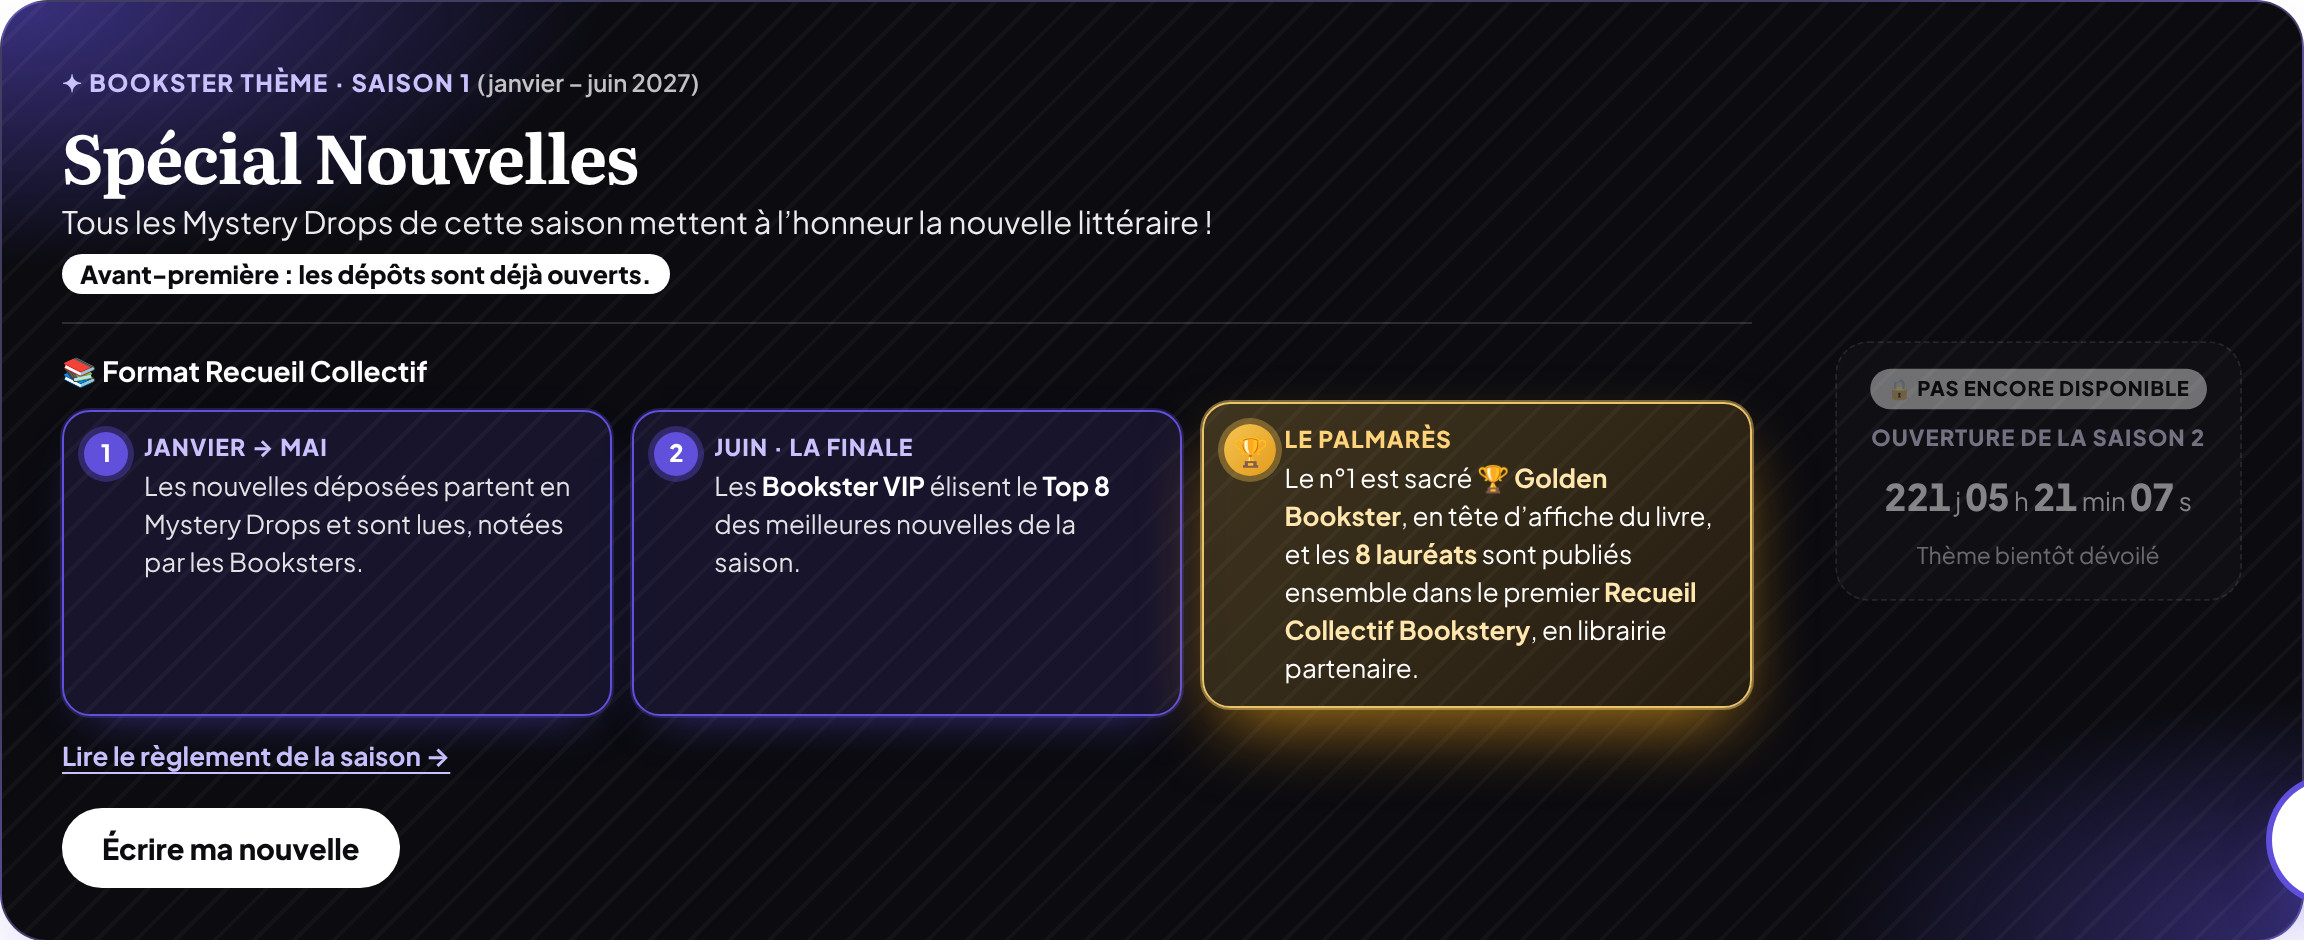
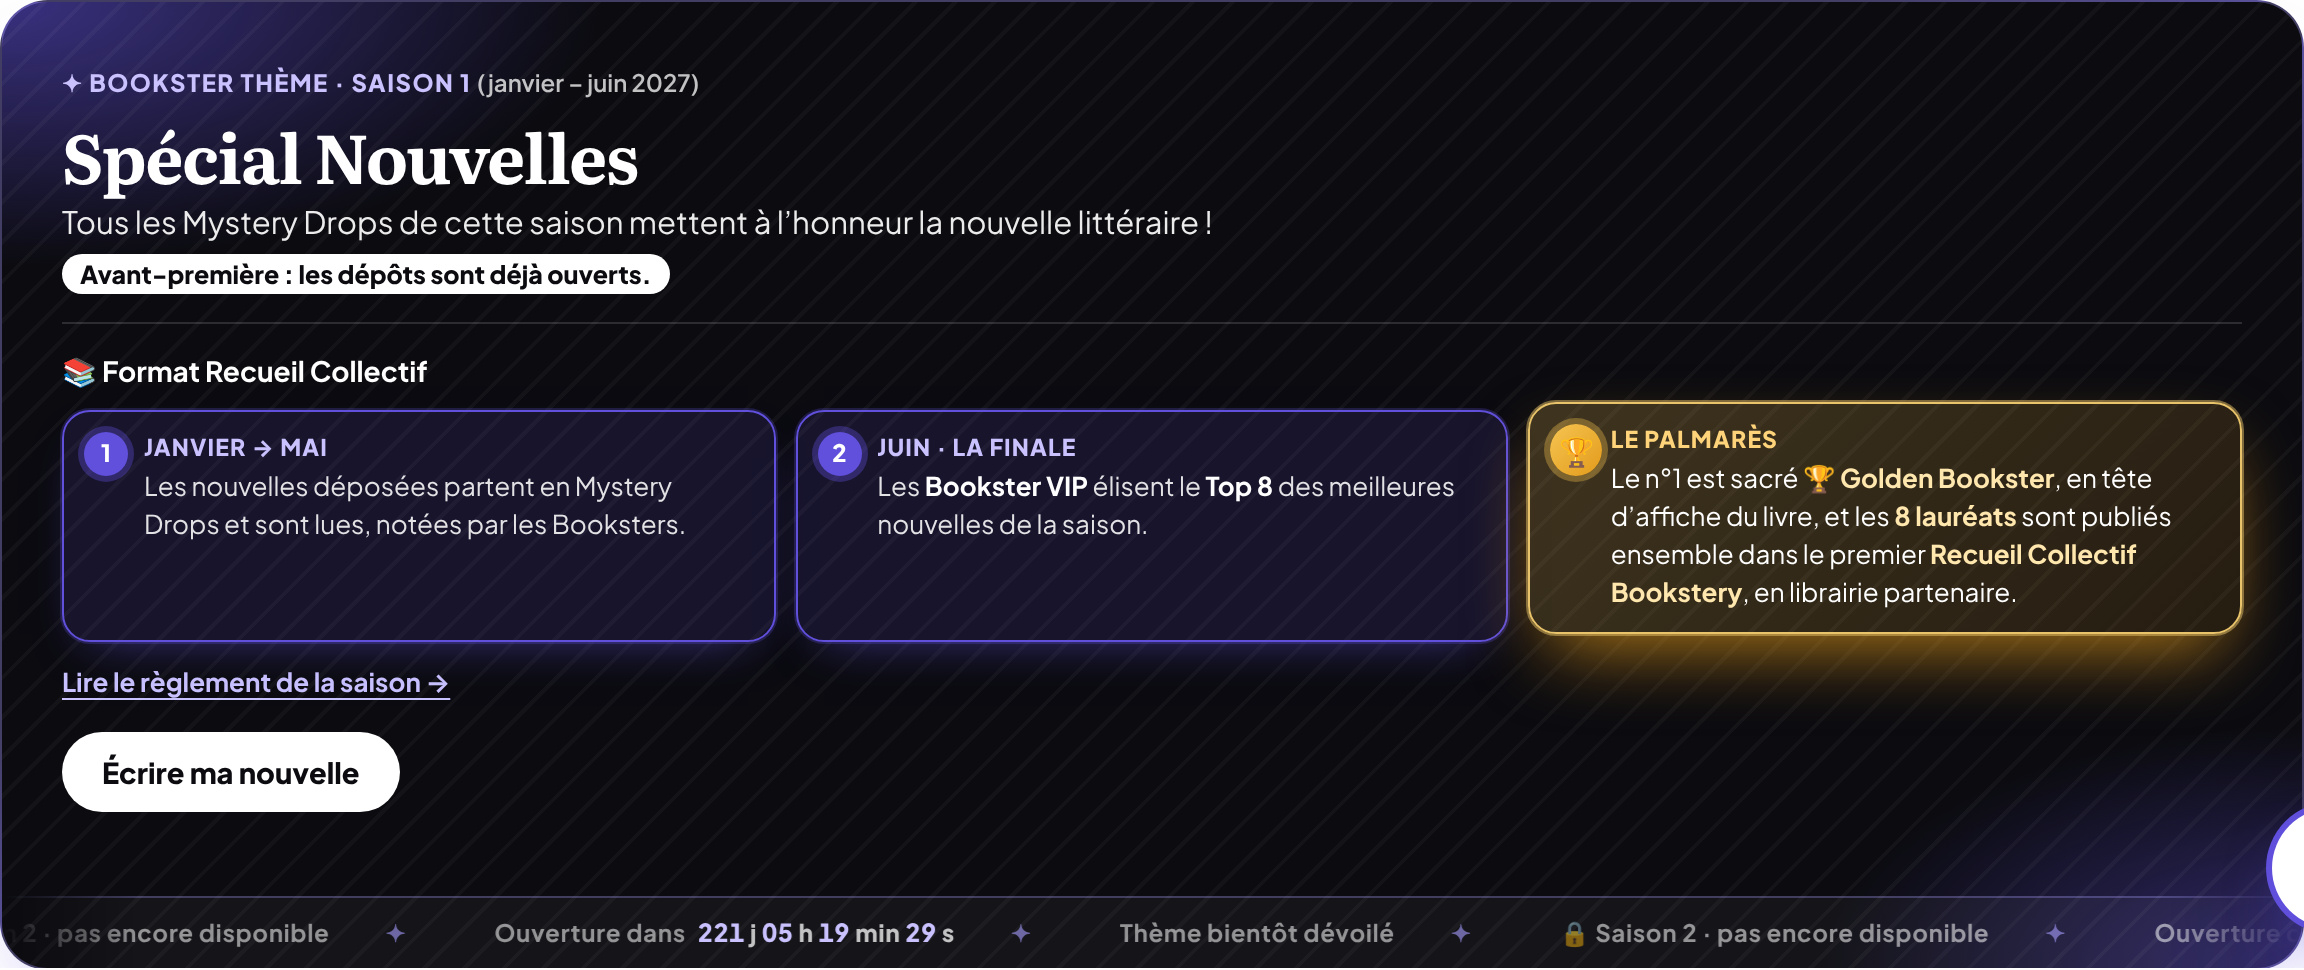
Bannière Saison 1 : ouverture de la Saison 2 en liseré fin défilant
Claude-Session: https://claude.ai/code/session_01EPa3evC84KLMU14gb8iTX3

diff --git a/index.html b/index.html
@@ -1187,6 +1187,22 @@ footer .legal{grid-column:1/-1;border-top:1px solid var(--line);padding-top:18px
 /* Étapes 1 et 2 : contour bleu Majorelle */
 .sz-steps li:not(:last-child){border:1.5px solid #6050DC;background:rgba(96,80,220,.14);box-shadow:0 0 0 1px rgba(96,80,220,.25),0 10px 24px -14px rgba(96,80,220,.7)}
 .sz-steps li:not(:last-child)::before{box-shadow:0 0 0 3px rgba(96,80,220,.35)}
+/* Liseré défilant de la saison suivante */
+.saison{flex-wrap:wrap;padding-bottom:0!important}
+.saison .sz-l{flex:1 1 100%;min-width:0}
+.saison{min-width:0;max-width:100%}
+.sz-ruban{min-width:0;max-width:none;width:auto;contain:inline-size}
+.sz-ruban{flex:1 1 100%;margin:18px -30px 0;overflow:hidden;border-top:1px solid rgba(169,159,255,.3);background:rgba(255,255,255,.04);white-space:nowrap;
+  -webkit-mask-image:linear-gradient(90deg,transparent,#000 6%,#000 94%,transparent);mask-image:linear-gradient(90deg,transparent,#000 6%,#000 94%,transparent)}
+.saison.auteur .sz-ruban{margin:14px -20px 0}
+.sz-rt{display:inline-flex;animation:szRuban 38s linear infinite}
+.sz-ruban:hover .sz-rt{animation-play-state:paused}
+.sz-ri{display:inline-flex;align-items:center;gap:6px;padding:7px 22px;font-size:12px;font-weight:700;letter-spacing:.03em;color:rgba(255,255,255,.55)}
+.sz-ri::after{content:"✦";margin-left:22px;color:rgba(169,159,255,.6)}
+.sz-ri .sz-cd{font-size:12px;opacity:1;color:rgba(255,255,255,.75)}
+.sz-ri .sz-cd b{font-size:12.5px;font-weight:800;color:#C9C2FF}
+@keyframes szRuban{from{transform:translateX(0)}to{transform:translateX(-50%)}}
+@media(max-width:760px){.sz-ruban{margin:16px -18px 0}}
 @media(prefers-reduced-motion:reduce){*{transition-duration:.01ms!important;animation:none!important;scroll-behavior:auto!important}}
 </style>
 </head>
@@ -1250,7 +1266,7 @@ footer .legal{grid-column:1/-1;border-top:1px solid var(--line);padding-top:18px
   </div>
 
   <div class="wrap">
-    <div class="saison-slot" data-saison="accueil"><section class="saison accueil" aria-label="Bookster Thème Saison 1"><div class="sz-l"><span class="sz-k">✦ Bookster Thème · Saison 1 <i>(janvier – juin 2027)</i></span><h2 class="sz-t">Spécial Nouvelles</h2><p class="sz-p">Tous les Mystery Drops de cette saison mettent à l’honneur la nouvelle littéraire&nbsp;!</p><div class="sz-rc"><b class="sz-rc-t">📚 Format Recueil Collectif</b><ol class="sz-steps"><li><span>Janvier → mai</span>Les nouvelles déposées partent en Mystery Drops et sont lues, notées par les Booksters.</li><li><span>Juin · la finale</span>Les <b>Bookster VIP</b> élisent le <b>Top 8</b> des meilleures nouvelles de la saison.</li><li><span>Le palmarès</span>Le n°1 est sacré <b>🏆 Golden Bookster</b>, en tête d’affiche du livre, et les <b>8 lauréats</b> sont publiés ensemble dans le premier <b>Recueil Collectif Bookstery</b>, en librairie partenaire.</li></ol><a class="sz-reg" href="legal.html#c-saison1">Lire le règlement de la saison →</a></div><button class="sz-btn" type="button" data-auteur>Écrire ma nouvelle</button></div><div class="sz-r"><span class="sz-soon">🔒 Pas encore disponible</span><span class="sz-cd-k">Ouverture de la Saison 2</span><span class="sz-cd">1er juillet 2027</span><span class="sz-cd-n">Thème bientôt dévoilé</span></div></section></div>
+    <div class="saison-slot" data-saison="accueil"><section class="saison accueil" aria-label="Bookster Thème Saison 1"><div class="sz-l"><span class="sz-k">✦ Bookster Thème · Saison 1 <i>(janvier – juin 2027)</i></span><h2 class="sz-t">Spécial Nouvelles</h2><p class="sz-p">Tous les Mystery Drops de cette saison mettent à l’honneur la nouvelle littéraire&nbsp;!</p><div class="sz-rc"><b class="sz-rc-t">📚 Format Recueil Collectif</b><ol class="sz-steps"><li><span>Janvier → mai</span>Les nouvelles déposées partent en Mystery Drops et sont lues, notées par les Booksters.</li><li><span>Juin · la finale</span>Les <b>Bookster VIP</b> élisent le <b>Top 8</b> des meilleures nouvelles de la saison.</li><li><span>Le palmarès</span>Le n°1 est sacré <b>🏆 Golden Bookster</b>, en tête d’affiche du livre, et les <b>8 lauréats</b> sont publiés ensemble dans le premier <b>Recueil Collectif Bookstery</b>, en librairie partenaire.</li></ol><a class="sz-reg" href="legal.html#c-saison1">Lire le règlement de la saison →</a></div><button class="sz-btn" type="button" data-auteur>Écrire ma nouvelle</button></div><div class="sz-ruban" role="note"><div class="sz-rt"><span class="sz-ri">🔒 Saison 2 · pas encore disponible</span><span class="sz-ri">Ouverture le 1er juillet 2027</span><span class="sz-ri">Thème bientôt dévoilé</span><span class="sz-ri">🔒 Saison 2 · pas encore disponible</span><span class="sz-ri">Ouverture le 1er juillet 2027</span><span class="sz-ri">Thème bientôt dévoilé</span><span class="sz-ri">🔒 Saison 2 · pas encore disponible</span><span class="sz-ri">Ouverture le 1er juillet 2027</span><span class="sz-ri">Thème bientôt dévoilé</span><span class="sz-ri">🔒 Saison 2 · pas encore disponible</span><span class="sz-ri">Ouverture le 1er juillet 2027</span><span class="sz-ri">Thème bientôt dévoilé</span></div></div></section></div>
     <div class="themes-slot" data-themes="accueil"><section class="bt accueil" aria-label="Boîte à Thèmes Saison 2"><div class="bt-l"><span class="bt-k">💡 Boîte à Thèmes · Saison 2</span><h3 class="bt-t">Quel thème pour la Saison 2&nbsp;?</h3><p class="bt-p">Propose le prochain Bookster Thème&nbsp;: la communauté décide, et Bookstery l’écoute.</p><div class="bt-grid"><span class="bt-g">Aventure</span><span class="bt-g">BD</span><span class="bt-g">Classiques</span><span class="bt-g">Fantasy</span><span class="bt-g">Feel-good</span><span class="bt-g">Horreur</span><span class="bt-g">Manga</span><span class="bt-g">Nouvelles</span><span class="bt-g">Poésie</span><span class="bt-g">Polar</span><span class="bt-g">Romance</span><span class="bt-g">Science-fiction</span><span class="bt-g">Thriller</span><span class="bt-g">Young Adult</span></div></div><div class="bt-r"><div class="bt-live"><span class="bt-dot"></span>Tendances en direct</div><p class="bt-empty">Chargement des tendances…</p></div></section></div>
     <ul class="vprops" aria-label="Pourquoi Bookstery">
       <li><span class="vp-ico" aria-hidden="true"><svg width="22" height="22" viewBox="0 0 24 24" fill="none" stroke="currentColor" stroke-width="2" stroke-linecap="round" stroke-linejoin="round"><path d="M4 19.5V5a2 2 0 0 1 2-2h13v16H6a2 2 0 0 0-2 2.5Z"/><path d="M8 7h7M8 11h5"/></svg></span><div><b>Des livres d’occasion près de chez toi</b><span>Vendus par des Booksters, avec photos réelles de chaque exemplaire.</span></div></li>
@@ -3556,6 +3572,9 @@ function saisonCourante(){var n=Date.now();for(var i=0;i<SAISONS.length;i++)if(n
 function saisonSuivante(c){var i=SAISONS.indexOf(c);return i>-1?SAISONS[i+1]||null:null}
 function rebours(ms){if(ms<=0)return"c’est ouvert !";var j=Math.floor(ms/864e5),h=Math.floor(ms%864e5/36e5),m=Math.floor(ms%36e5/6e4),s2=Math.floor(ms%6e4/1e3);
   return'<b>'+j+'</b> j <b>'+String(h).padStart(2,"0")+'</b> h <b>'+String(m).padStart(2,"0")+'</b> min <b>'+String(s2).padStart(2,"0")+'</b> s'}
+/* Liseré défilant (Saison suivante, pas encore disponible) : le contenu est doublé pour un défilement sans coupure */
+function szRuban(nx){var item='<span class="sz-ri">🔒 '+esc(nx.nom)+' · pas encore disponible</span><span class="sz-ri">Ouverture dans <b class="sz-cd" data-cd="'+esc(nx.debut)+'">'+rebours(Date.parse(nx.debut)-Date.now())+'</b></span><span class="sz-ri">'+esc(nx.theme)+'</span>';
+  return'<div class="sz-ruban" role="note" aria-label="'+esc(nx.nom)+' : pas encore disponible, ouverture le 1er juillet 2027"><div class="sz-rt">'+item+item+item+item+'</div></div>'}
 function saisonBanner(ctx){var c=saisonCourante();if(!c)return"";var nx=saisonSuivante(c),avant=Date.now()<Date.parse(c.debut);
   return'<section class="saison '+ctx+'" aria-label="Bookster Thème '+esc(c.nom)+'">'+
     '<div class="sz-l"><span class="sz-k">✦ Bookster Thème · '+esc(c.nom)+' <i>('+esc(c.periode)+')</i></span>'+
@@ -3564,7 +3583,7 @@ function saisonBanner(ctx){var c=saisonCourante();if(!c)return"";var nx=saisonSu
     (ctx==="auteur"?'<p class="sz-lock">🔒 Dépôts de la saison : <b>format '+esc(c.formatNom||"libre")+'</b> uniquement.</p>':"")+
     (c.recueil?'<div class="sz-rc"><b class="sz-rc-t">📚 Format Recueil Collectif</b><ol class="sz-steps"><li><span>Janvier → mai</span>Les nouvelles déposées partent en Mystery Drops et sont lues, notées par les Booksters.</li><li><span>Juin · la finale</span>Les <b>Bookster VIP</b> élisent le <b>Top 8</b> des meilleures nouvelles de la saison.</li><li><span>Le palmarès</span>Le n°1 est sacré <b>🏆 Golden Bookster</b>, en tête d’affiche du livre, et les <b>8 lauréats</b> sont publiés ensemble dans le premier <b>Recueil Collectif Bookstery</b>, en librairie partenaire.</li></ol><a class="sz-reg" href="legal.html#c-saison1">Lire le règlement de la saison →</a></div>':"")+
     (ctx==="accueil"?'<button class="sz-btn" type="button" data-auteur>Écrire ma nouvelle</button>':"")+'</div>'+
-    (nx?'<div class="sz-r"><span class="sz-soon">🔒 Pas encore disponible</span><span class="sz-cd-k">Ouverture de la '+esc(nx.nom)+'</span><span class="sz-cd" data-cd="'+esc(nx.debut)+'">'+rebours(Date.parse(nx.debut)-Date.now())+'</span><span class="sz-cd-n">'+esc(nx.theme)+'</span></div>':"")+
+    (nx?szRuban(nx):"")+
   '</section>'}
 function renderSaisons(){document.querySelectorAll(".saison-slot").forEach(function(el){el.innerHTML=saisonBanner(el.getAttribute("data-saison"))});
   var c=saisonCourante(),row=$("exFormatRow");
